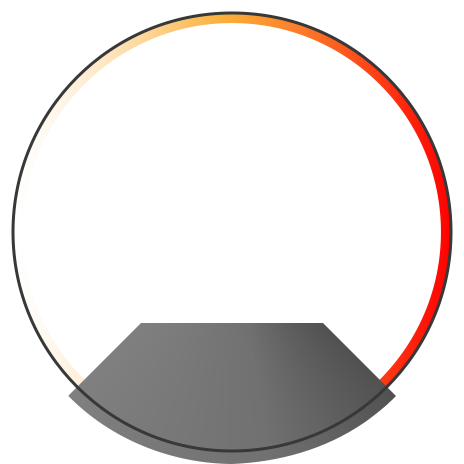
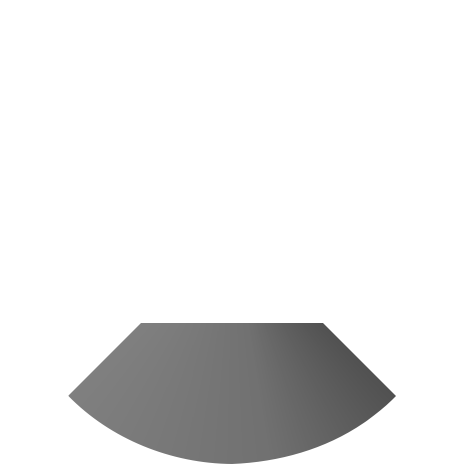
[RBDI-16] Rotated the throttle pressure needle and pulled the glow out to its own layer.

diff --git a/BigDataDemo/DefaultSignalsViewController+Drawing.m b/BigDataDemo/DefaultSignalsViewController+Drawing.m
@@ -28,24 +28,29 @@ typedef enum
 
 - (void)drawThrottlePressureView:(UIView *)throttlePressureView
 {
+    CALayer *glowLayer = [CALayer layer];
     CALayer *bottomLayer = [CALayer layer];
     CALayer *needleLayer = [CALayer layer];
     CALayer *topLayer    = [CALayer layer];
 
+    glowLayer.contents = (id)[UIImage imageNamed:@"throttle_pressure_glow_layer.png"].CGImage;
     bottomLayer.contents = (id)[UIImage imageNamed:@"throttle_pressure_bottom_layer.png"].CGImage;
     needleLayer.contents = (id)[UIImage imageNamed:@"throttle_pressure_needle.png"].CGImage;
     topLayer.contents = (id)[UIImage imageNamed:@"throttle_pressure_top_layer.png"].CGImage;
 
-    bottomLayer.frame =
-            needleLayer.frame =
-                    topLayer.frame = throttlePressureView.bounds;
+    glowLayer.frame =
+            bottomLayer.frame =
+                    needleLayer.frame =
+                            topLayer.frame = throttlePressureView.bounds;
 
 //    bottomLayer.anchorPoint =
 //            needleLayer.anchorPoint =
 //                    topLayer.anchorPoint = throttlePressureView.center;
 
     needleLayer.name = @"NEEDLE";
+    needleLayer.name = @"GLOW";
 
+    [[throttlePressureView layer] addSublayer:glowLayer];
     [[throttlePressureView layer] addSublayer:bottomLayer];
     [[throttlePressureView layer] addSublayer:needleLayer];
     [[throttlePressureView layer] addSublayer:topLayer];
